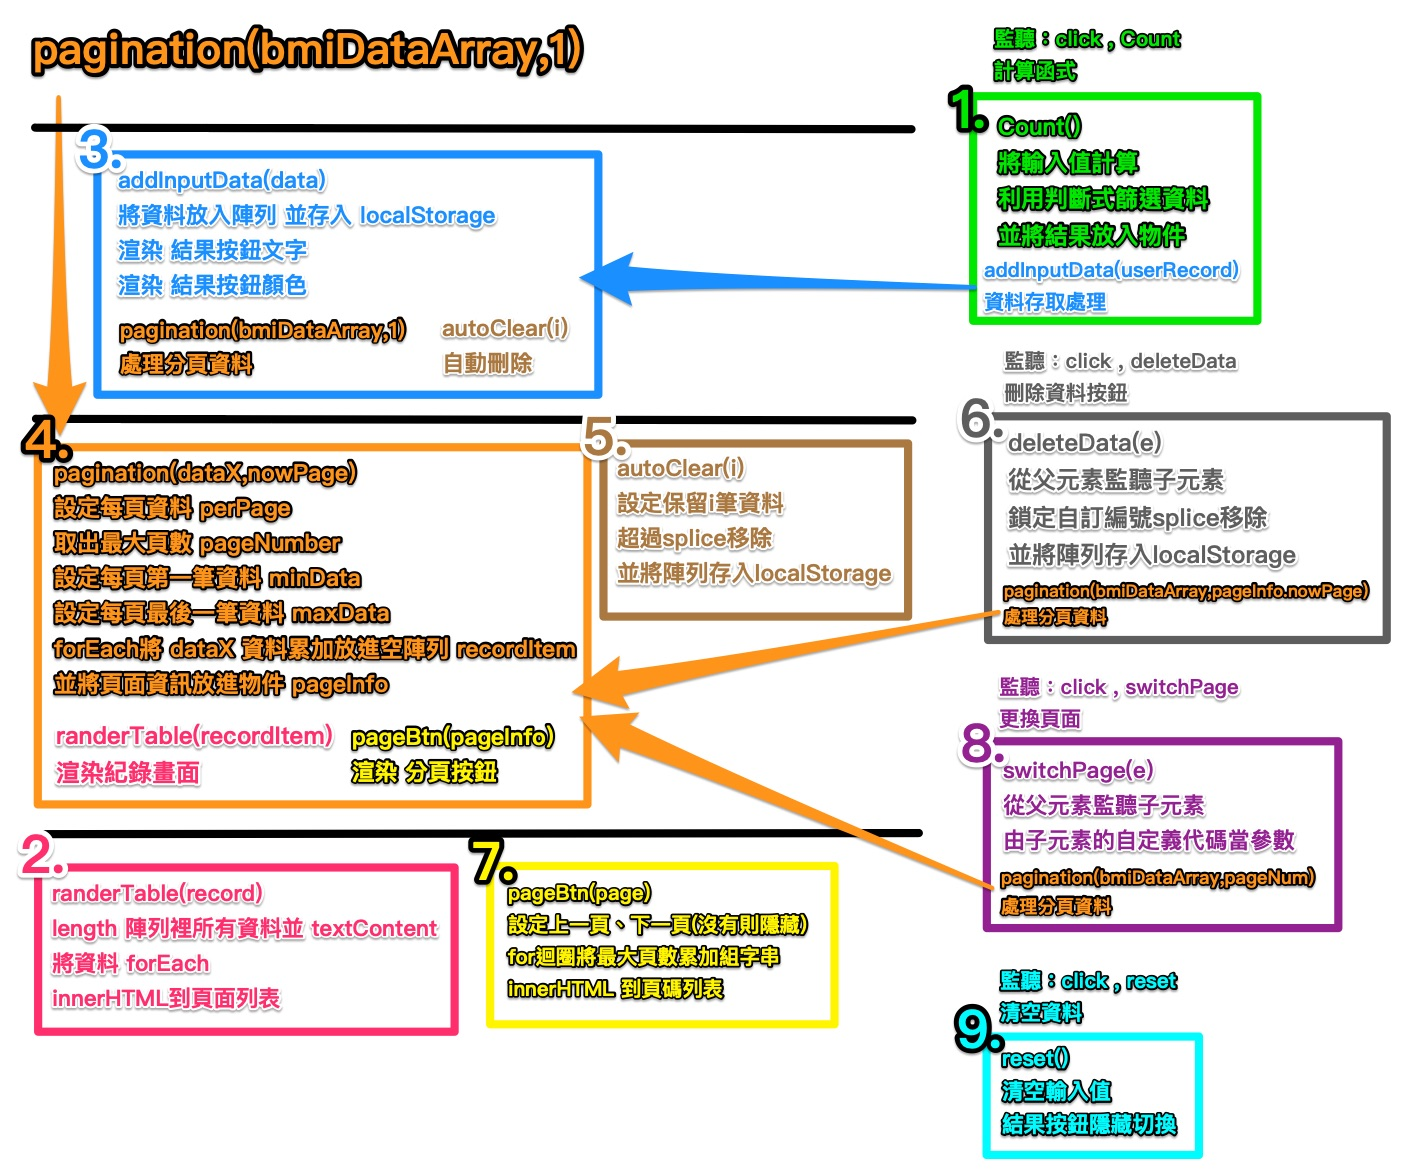
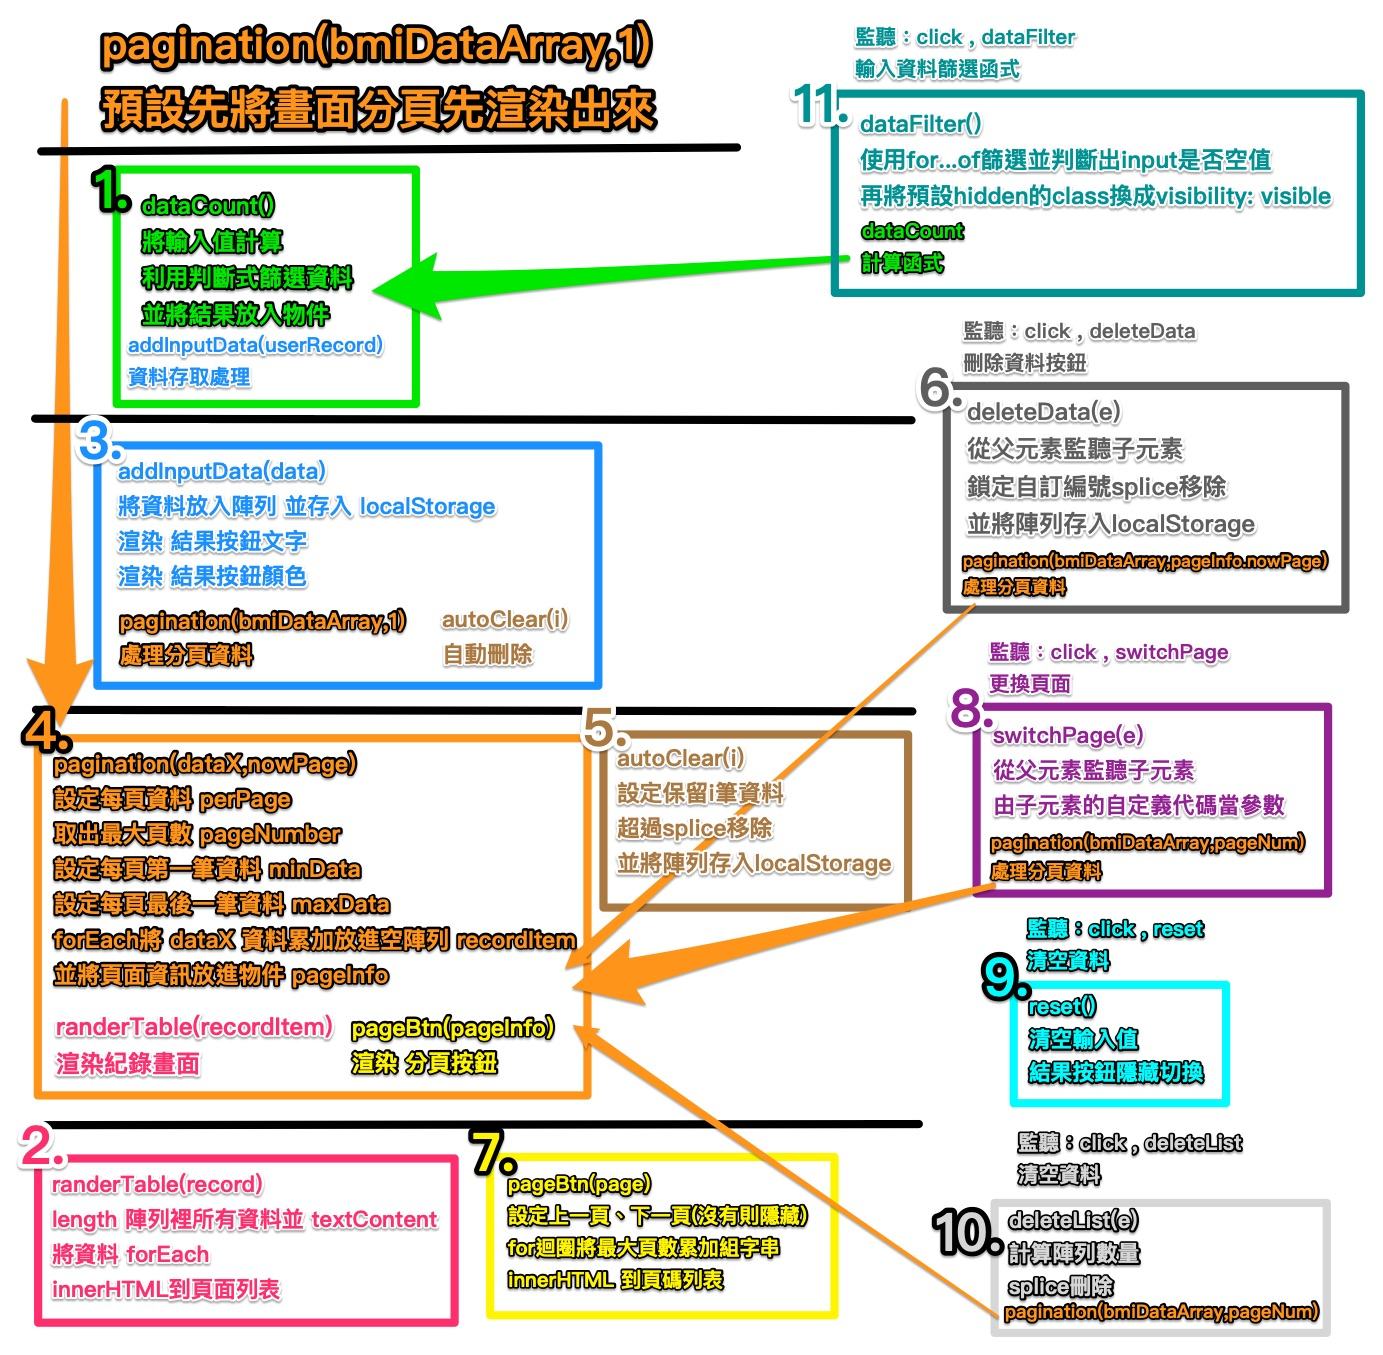
add 清除全部功能 輸入提示 微調細節

diff --git a/js/all.js b/js/all.js
@@ -5,36 +5,53 @@ const resultBtn = document.querySelector('.resultBtn');
 const resultTable = document.querySelector('.resultTable');
 const loopIcon = document.querySelector('.loopIcon');
 const pageShow = document.querySelector('.pageShow');
+const removeAll = document.querySelector('.removeAll');
 let bmiDataArray = JSON.parse(localStorage.getItem('userData')) || [];
 
 // 宣告 分頁物件資訊
 let pageInfo = '';
     
-sendBtn.addEventListener('click',Count,false); // 監聽 計算函式
+sendBtn.addEventListener('click',dataFilter,false); // 監聽 輸入資料篩選函式
 resultTable.addEventListener('click',deleteData,false); // 監聽 刪除函式
 pageShow.addEventListener('click',switchPage,false); // 監聽 換頁函式
-loopIcon.addEventListener('click',reset,false); // 監聽 清空函式
+loopIcon.addEventListener('click',reset,false); // 監聽 清空輸入值函式
+removeAll.addEventListener("click", deleteList); // 監聽 清空全部資料函式
 pagination(bmiDataArray,1) // 預設分頁第一頁渲染畫面
 
-// 計算函式
-function Count(){
-    // 如果沒輸入值就跳警告視窗，後面不做
-    if ( inputHeight.value === '' ){
-        alert("請輸入身高！");
+// 輸入資料篩選函式
+function dataFilter(){
+    let inputGroup = document.querySelectorAll('.inputGroup');
+    // console.log(inputGroup);
+    // 使用 for...of '遍歷'所要的值
+    for (inputEle of inputGroup) {
+    //   console.log(inputEle);
+    // 判斷input是否為空值，classList顯示或隱藏
+      if (inputEle.querySelector('input').value === ''){
+        inputEle.querySelector('.inputNotice').classList.add('noticeShow');
+        return;
+      } else {
+        inputEle.querySelector('.inputNotice').classList.remove('noticeShow');
+      }
+    };
+    if(inputHeight.value !=='' && inputWeight.value !==''){
+        dataCount();
+    }else{
         return;
     }
-    if ( inputWeight.value === '' ){
-        alert("請輸入體重！");
-        return;
-    }
+};
 
+// 計算函式
+function dataCount(){
     // 看結果按鈕隱藏，顯示結果圓圈
     sendBtn.style.display = "none";
     resultBtn.style.display = "flex";
 
     // 開始處理輸入值 並 計算
-    let userHeight = parseFloat(inputHeight.value);
-    let userWeight = parseFloat(inputWeight.value);
+    let userHeight = parseFloat(inputHeight.value).toFixed(2);
+        // toFixed() 的值又會轉回 string
+    userHeight = parseFloat(userHeight);
+    let userWeight = parseFloat(inputWeight.value).toFixed(2);
+    userWeight = parseFloat(userWeight);
     let bmi = (userWeight / (userHeight / 100) **2).toFixed(2);
     // console.log(bmi)
     // console.log(typeof(bmi))
@@ -69,8 +86,8 @@ function Count(){
             userRecord.class = 'SevereObesity'
         }
       }else{
-        alert("資料錯誤");
-      }
+        alert('資料錯誤');
+      };
 
     //獲得當前日期
     let date = new Date();
@@ -82,7 +99,7 @@ function Count(){
     if(day.length === 1){day = '0'+day}
     if(month.length === 1){month = '0'+month}
     // console.log(year,month,day)
-    userRecord.time = `${year}-${month}-${day}`
+    userRecord.time = `${year}-${month}-${day}`;
 
     addInputData(userRecord);
 }
@@ -110,7 +127,7 @@ function addInputData(data){
         autoClear(i);
     };
 
-    pagination(bmiDataArray,1)
+    pagination(bmiDataArray,1);
 }
 
 
@@ -182,14 +199,14 @@ function randerTable(record){
 
 // 刪除資料按鈕函式
 function deleteData(e){
-    if (e.target.nodeName != 'INPUT'){return;} //從父元素監聽子元素
+    if (e.target.nodeName !== 'INPUT'){return;} //從父元素監聽子元素
     // console.log(e.target.nodeName)
     let deleteNum = e.target.dataset.num; // 鎖定自訂編號的資料
 
     bmiDataArray.splice(deleteNum,1);
     localStorage.setItem('userData', JSON.stringify(bmiDataArray));
 
-    pagination(bmiDataArray,pageInfo.nowPage)
+    pagination(bmiDataArray,pageInfo.nowPage);
 }
 
 // 渲染 分頁按鈕
@@ -201,7 +218,7 @@ function pageBtn(page){
         } else { //否則不顯示
         eleStr += `<li><a data-page="1" style="display: none">第一頁</a></li>
                    <li><a data-page="${Number(page.nowPage) - 1}" style="display: none">prev</a></li>`;
-        } ;
+        };
     
     for (let i = 1; i <= page.pageNumber; i++) {
         if(Number(page.nowPage) === i){
@@ -229,7 +246,7 @@ function switchPage(e) {
     
     const pageNum = e.target.dataset.page; // 由自定義的data-num鎖定頁數
     // console.log(bmiDataArray,pageNum);
-    pagination(bmiDataArray,pageNum)
+    pagination(bmiDataArray,pageNum);
 }
 
 // 清空資料函式
@@ -240,3 +257,13 @@ function reset(){
     sendBtn.style.display = "flex";
     resultBtn.style.display = "none";
 }
+
+ // 刪除全部資料
+ function deleteList(e){
+     e.preventDefault();
+     let deleteNum = bmiDataArray.length; // 陣列數量
+    //  console.log(deleteNum)
+     bmiDataArray.splice(0 ,deleteNum); // 從第0筆開始，刪除deleteNum筆
+     localStorage.setItem("userData", JSON.stringify(bmiDataArray));
+     pagination(bmiDataArray,pageInfo.nowPage);
+ };

diff --git a/index.html b/index.html
@@ -16,13 +16,18 @@
                     <h1><a href="#">BMI計算機</a></h1>  
                 </div>
                 <div class="dataInput">
-                    <label for="dataInputHeight">身高 cm</label>
-                    <br>
-                    <input type="text" id="dataInputHeight" placeholder="請輸入身高" required>
-                    <br>
-                    <label for="dataInputWeight">體重 kg</label>
-                    <br>
-                    <input type="text" id="dataInputWeight" placeholder="請輸入體重" required>
+                    <div class="inputGroup">
+                        <label for="dataInputHeight">身高 cm</label>
+                        <br>
+                        <input type="text" id="dataInputHeight" placeholder="請輸入身高" required>
+                        <p class="inputNotice">請輸入身高</p>
+                    </div>
+                    <div class="inputGroup">
+                        <label for="dataInputWeight">體重 kg</label>
+                        <br>
+                        <input type="text" id="dataInputWeight" placeholder="請輸入體重" required>
+                        <p class="inputNotice">請輸入體重</p>
+                    </div>
                 </div>
                 <div class="sendBtn"><span class="cycleBtnText">看結果</span></div>
                 <div class="resultBtn">
@@ -35,7 +40,9 @@
             </div>
         </div>
         <div class="main">
-            <h2>BMI 紀錄</h2>
+            <h2>BMI 紀錄
+                <a href="#" class="removeAll">刪除全部</a>
+            </h2>
             <table class="resultTable">
             </table>
             <p class="totalRecordNum"></p>

diff --git a/css/_index.scss b/css/_index.scss
@@ -21,6 +21,7 @@
 }
 .dataInput{
     margin: 20px;
+    
     label{
         color: #fff;
     }
@@ -36,10 +37,16 @@
             border: 3px solid $main_bg_color;
             outline: none;
         }
-        &:nth-of-type(1){
-            // 指定第一個input
-            margin-bottom: 10px;
-        }
+    }
+    .inputNotice{
+        color: red;
+        // position: absolute;
+        font-size: 16px;
+        visibility: hidden;
+    
+        &.noticeShow{
+            visibility: visible;
+            }
     }
 }
 .sendBtn{
@@ -166,6 +173,25 @@
     background-color: #f5f5f5;
     h2{
         margin-top: 30px;
+        text-align: center;
+        .removeAll{
+            text-decoration: none;
+            margin-left: 20px;
+            display: inline-block;
+            width: 80px;
+            height: 24px;
+            font-size: 14px;
+            line-height: 20px;
+            color: #fff;
+            border: rgb(202, 60, 60) 2px solid;
+            background: rgb(202, 60, 60);
+            text-shadow: 0 1px 1px rgba(0, 0, 0, 0.2);
+            border-radius: 5px;
+            &:hover{
+                color: rgb(202, 60, 60);
+                background: #fff;
+            }
+        }
     }
 }
 .resultTable{

diff --git a/css/all.css b/css/all.css
@@ -181,8 +181,14 @@ p {
   outline: none;
 }
 
-.dataInput input:nth-of-type(1) {
-  margin-bottom: 10px;
+.dataInput .inputNotice {
+  color: red;
+  font-size: 16px;
+  visibility: hidden;
+}
+
+.dataInput .inputNotice.noticeShow {
+  visibility: visible;
 }
 
 .sendBtn {
@@ -355,6 +361,27 @@ p {
 
 .main h2 {
   margin-top: 30px;
+  text-align: center;
+}
+
+.main h2 .removeAll {
+  text-decoration: none;
+  margin-left: 20px;
+  display: inline-block;
+  width: 80px;
+  height: 24px;
+  font-size: 14px;
+  line-height: 20px;
+  color: #fff;
+  border: #ca3c3c 2px solid;
+  background: #ca3c3c;
+  text-shadow: 0 1px 1px rgba(0, 0, 0, 0.2);
+  border-radius: 5px;
+}
+
+.main h2 .removeAll:hover {
+  color: #ca3c3c;
+  background: #fff;
 }
 
 .resultTable {
